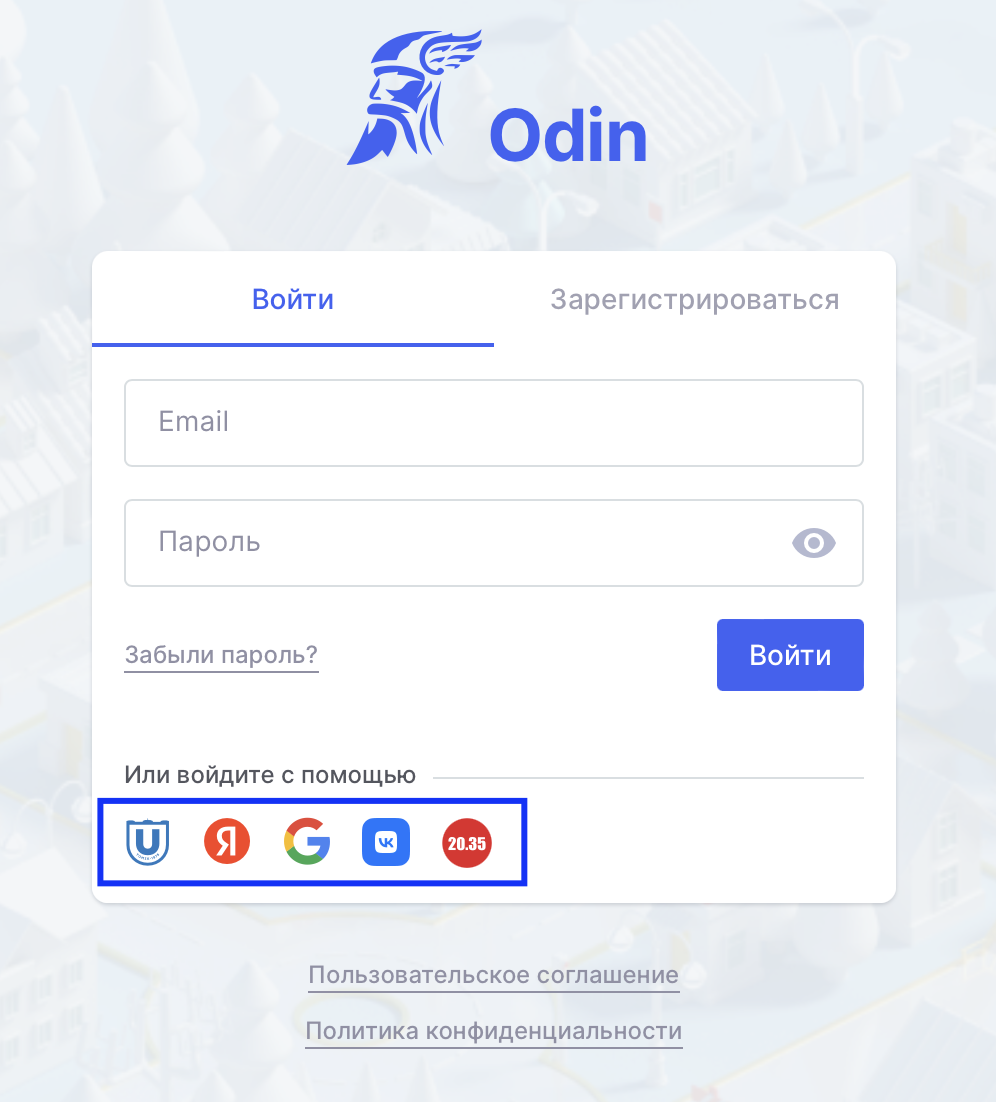
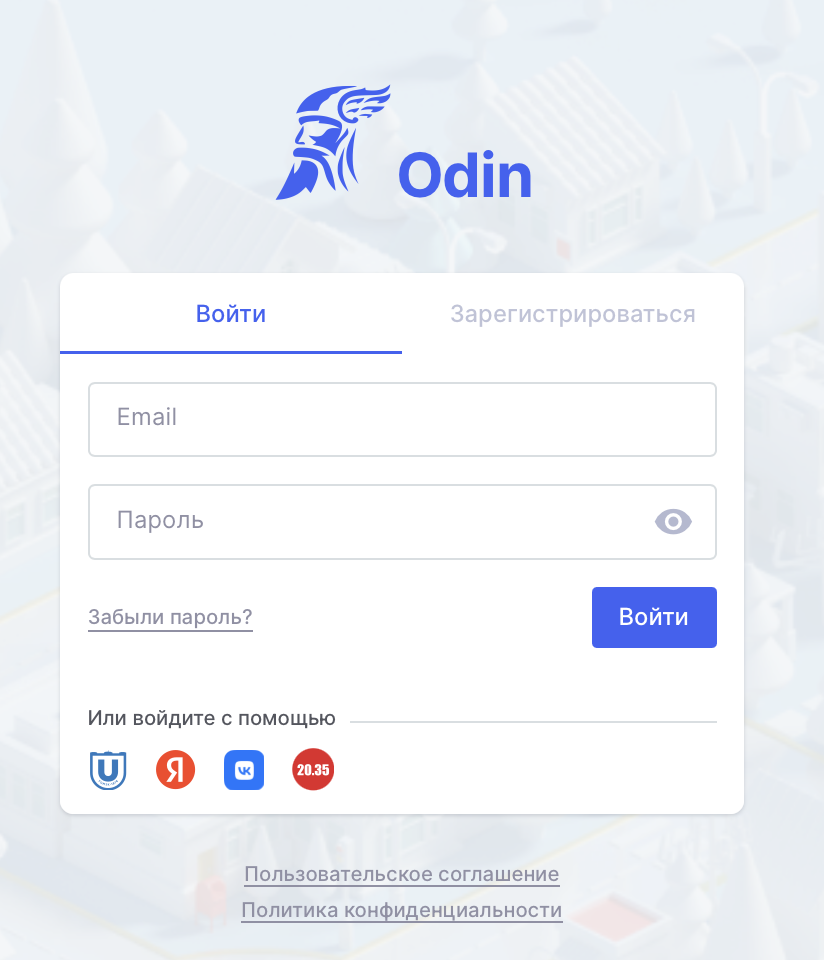
Update 2 files
- roli-v-sisteme/bystryi-vkhod-v-sistemu.md
   - roli-v-sisteme/bystryi-vkhod-v-sistemu.png

diff --git a/roli-v-sisteme/bystryi-vkhod-v-sistemu.md b/roli-v-sisteme/bystryi-vkhod-v-sistemu.md
@@ -12,8 +12,6 @@ title: Быстрый вход в систему
 
 -  Яндекс
 
--  Google
-
 -  VK
 
 -  20\.35
@@ -45,4 +43,4 @@ title: Быстрый вход в систему
 
 :::
 
-![](./bystryi-vkhod-v-sistemu.png){width=996px height=1102px}
+![](./bystryi-vkhod-v-sistemu.png){width=824px height=960px}
